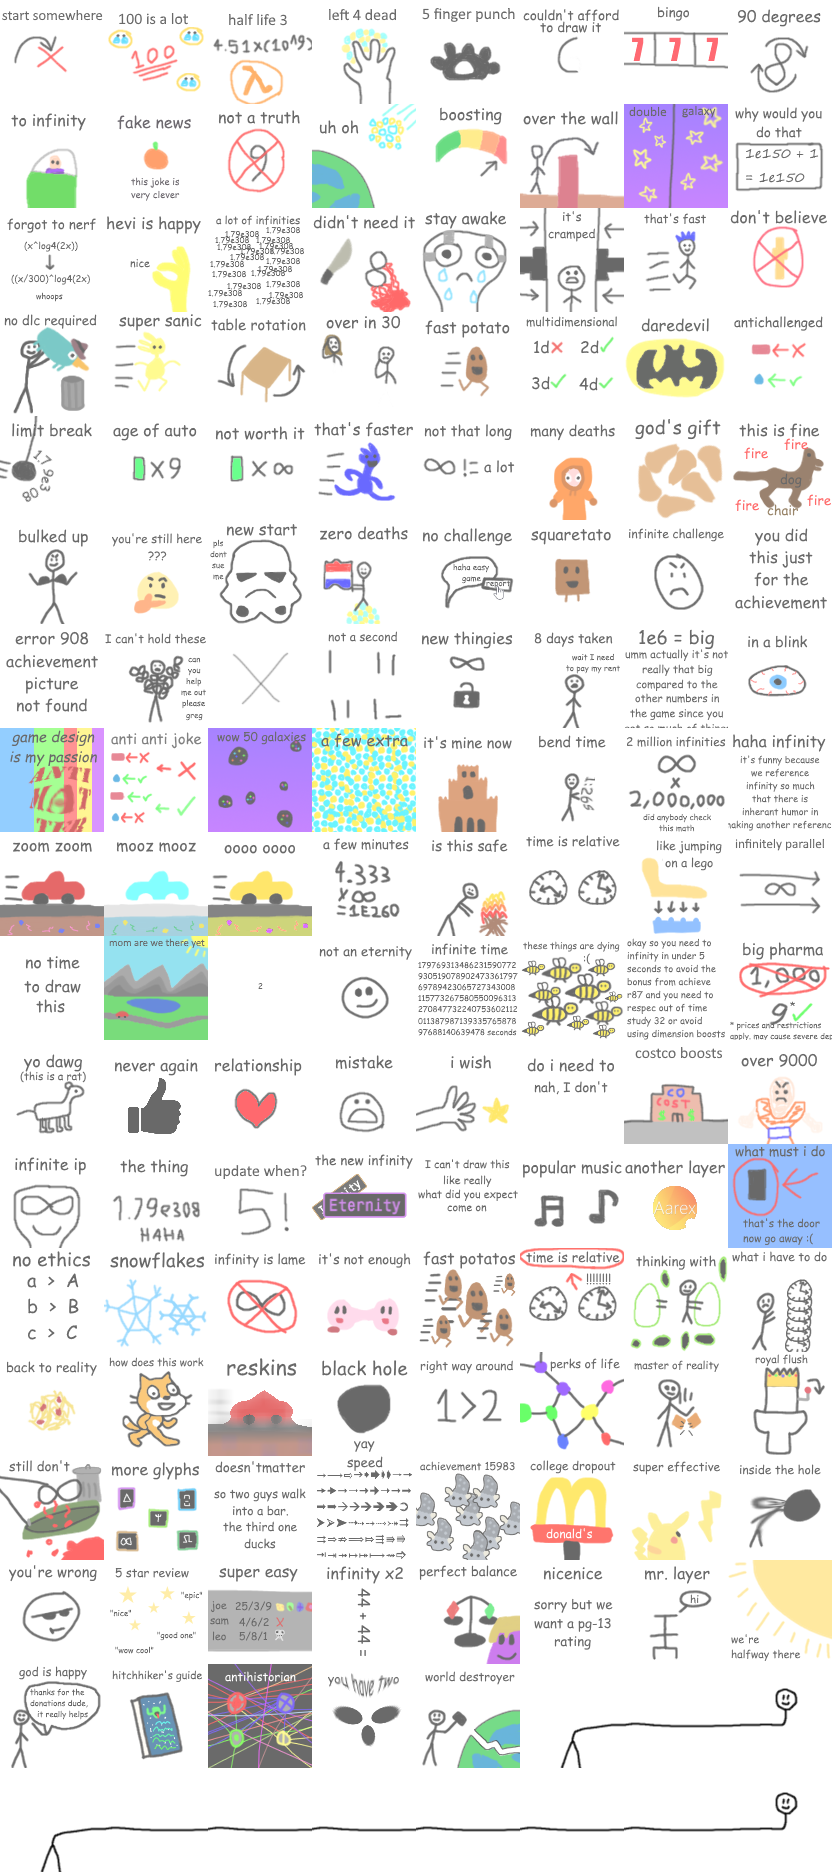
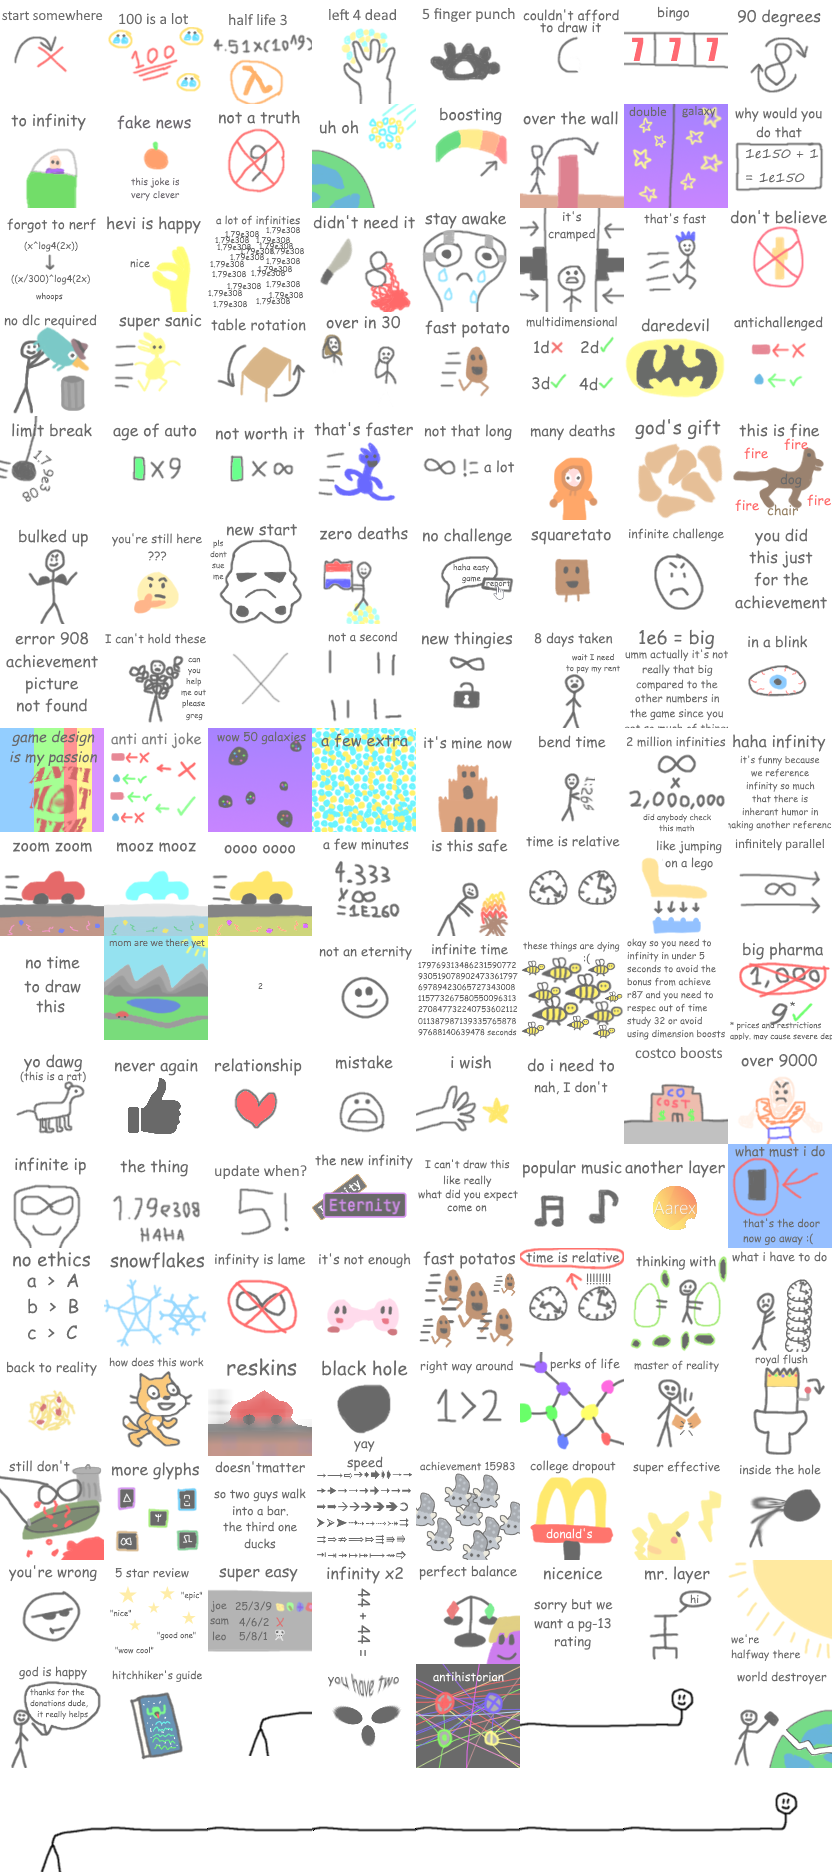
Add remaining row 17 achievements, reorder a few things

diff --git a/javascripts/core/secret-formula/achievements/normal-achievements.js b/javascripts/core/secret-formula/achievements/normal-achievements.js
@@ -1252,12 +1252,10 @@ GameDatabase.achievements.normal = [
   },
   {
     id: 173,
-    name: "The First Antihistorian",
-    get description() { return `Get ${formatInt(Ra.alchemyResourceCap)} of all Alchemy Resources.`; },
-    checkRequirement: () => AlchemyResources.all.every(x => x.amount >= Ra.alchemyResourceCap),
-    checkEvent: GAME_EVENT.REALITY_RESET_AFTER,
-    get reward() { return `Momentum increases ${formatX(10)} faster.`; },
-    effect: 10,
+    name: "Cet accomplissement n'existe pas III",
+    get description() { return `Reach ${formatPostBreak(DC.D9_99999E999, 5, 0)} Reality Machines.`; },
+    checkRequirement: () => player.reality.realityMachines.gte(DC.D9_99999E999),
+    checkEvent: GAME_EVENT.GAME_TICK_AFTER
   },
   {
     id: 174,
@@ -1268,33 +1266,31 @@ GameDatabase.achievements.normal = [
   },
   {
     id: 175,
+    name: "The First Antihistorian",
+    get description() { return `Get ${formatInt(Ra.alchemyResourceCap)} of all Alchemy Resources.`; },
+    checkRequirement: () => AlchemyResources.all.every(x => x.amount >= Ra.alchemyResourceCap),
+    checkEvent: GAME_EVENT.REALITY_RESET_AFTER,
+    get reward() { return `Momentum increases ${formatX(10)} faster.`; },
+    effect: 10,
+  },
+  {
+    id: 176,
+    name: "Mom counted to 3",
+    description: "Annihilate your Dark Matter Dimensions.",
+  },
+  {
+    id: 177,
+    name: "This mile took a celestial",
+    description: "Complete all Singularity Milestones at least once.",
+  },
+  {
+    id: 178,
     name: "Destroyer of Worlds",
     get description() { return `Get ${formatInt(100000)} Antimatter Galaxies.`; },
     checkRequirement: () => player.galaxies >= 100000,
     checkEvent: GAME_EVENT.GALAXY_RESET_AFTER,
     get reward() { return `All Galaxies are ${formatPercents(0.01)} stronger.`; },
     effect: 1.01
-  },
-  {
-    id: 176,
-    name: "dummy achievement 1",
-    description: "this achievement isn't implemented yet",
-    checkRequirement: () => false,
-    checkEvent: []
-  },
-  {
-    id: 177,
-    name: "dummy achievement 2",
-    description: "neither is this one",
-    checkRequirement: () => false,
-    checkEvent: []
-  },
-  {
-    id: 178,
-    name: "dummy achievement 3",
-    description: "you bet by god this one isn't either",
-    checkRequirement: () => false,
-    checkEvent: []
   },
   {
     id: 181,

diff --git a/javascripts/core/secret-formula/celestials/alchemy.js b/javascripts/core/secret-formula/celestials/alchemy.js
@@ -224,7 +224,7 @@ GameDatabase.celestials.alchemy = {
       unlockedAt: 15,
       description: "provides a multiplier to all dimensions based on real time since unlock",
       formatEffect: value => `All Dimensions ${formatPow(Ra.momentumValue, 4, 4)}, increasing by
-        ${format(0.002 * Achievement(173).effectOrDefault(1), 3, 3)}
+        ${format(0.002 * Achievement(175).effectOrDefault(1), 3, 3)}
         per real-time hour after the resource is unlocked, up to a maximum of ${formatPow(value, 4, 4)}`,
       reagents: [
         {

diff --git a/javascripts/game.js b/javascripts/game.js
@@ -428,7 +428,7 @@ export function gameLoop(passDiff, options = {}) {
   // This is in order to prevent players from using time inside of Ra's reality for amplification as well
   Ra.memoryTick(realDiff, !Enslaved.isStoringRealTime);
   if (AlchemyResource.momentum.isUnlocked) {
-    player.celestials.ra.momentumTime += realDiff * Achievement(173).effectOrDefault(1);
+    player.celestials.ra.momentumTime += realDiff * Achievement(175).effectOrDefault(1);
   }
 
   // Lai'tela mechanics should bypass stored real time entirely

diff --git a/javascripts/core/tickspeed.js b/javascripts/core/tickspeed.js
@@ -37,7 +37,7 @@ export function getTickSpeedMultiplier() {
       TimeStudy(212),
       TimeStudy(232),
       Achievement(86),
-      Achievement(175),
+      Achievement(178),
       InfinityChallenge(5).reward,
       PelleRebuyableUpgrade.galaxyPower
     );
@@ -61,7 +61,7 @@ export function getTickSpeedMultiplier() {
     TimeStudy(212),
     TimeStudy(232),
     Achievement(86),
-    Achievement(175),
+    Achievement(178),
     InfinityChallenge(5).reward,
     PelleRebuyableUpgrade.galaxyPower
   );

diff --git a/javascripts/core/celestials/laitela/singularity.js b/javascripts/core/celestials/laitela/singularity.js
@@ -307,4 +307,5 @@ EventHub.logic.on(GAME_EVENT.SINGULARITY_RESET_AFTER, () => {
   if (newMilestones === 1) GameUI.notify.blackHole(`You reached a Singularity milestone!`);
   else GameUI.notify.blackHole(`You reached ${formatInt(newMilestones)} Singularity milestones!`);
   SingularityMilestones.lastNotified = Currency.singularities.value;
+  if (SingularityMilestones.all.countWhere(completions => completions === 0) === 0) Achievement(177).unlock();
 });

diff --git a/javascripts/core/celestials/laitela/laitela.js b/javascripts/core/celestials/laitela/laitela.js
@@ -79,6 +79,7 @@ export const Laitela = {
     DarkMatterDimensions.reset();
     Currency.darkEnergy.reset();
     Laitela.quotes.show(Laitela.quotes.ANNIHILATION);
+    Achievement(176).unlock();
     return true;
   },
   // Greedily buys the cheapest available upgrade until none are affordable
